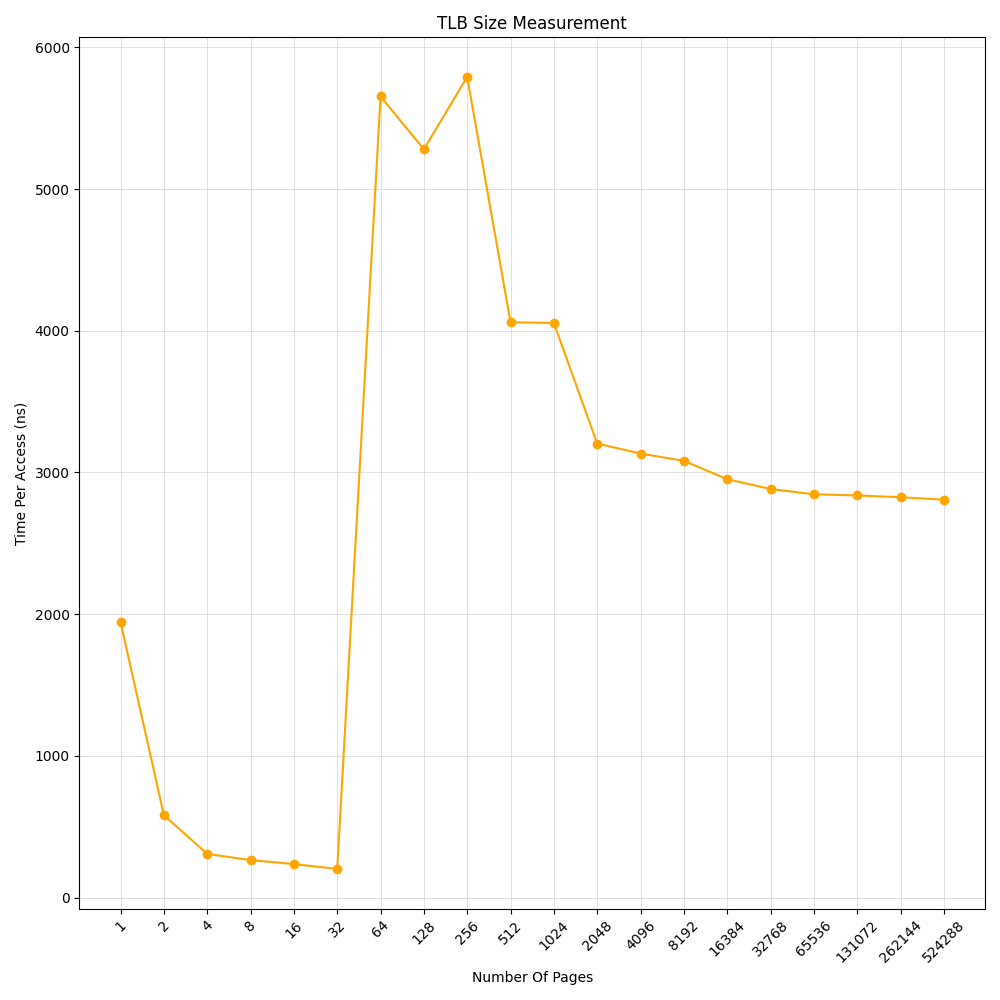
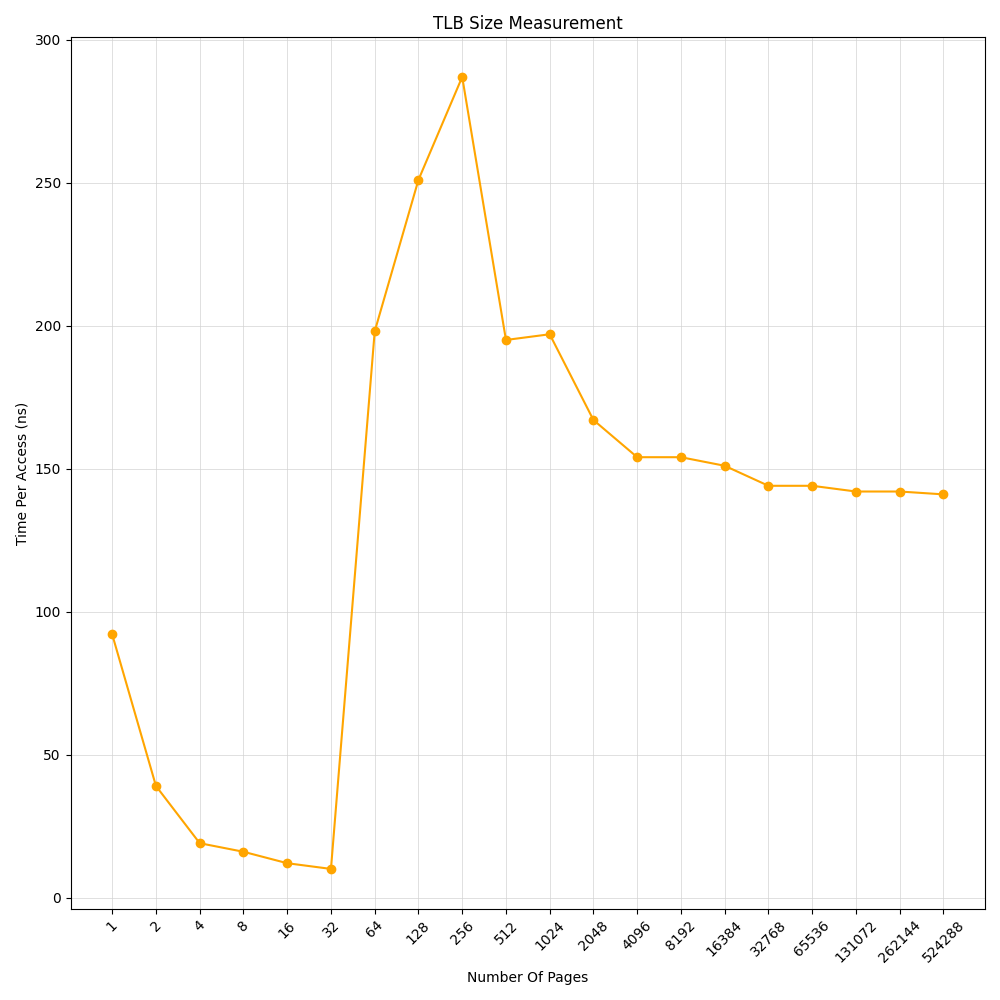
Change

diff --git a/tlb.py b/tlb.py
@@ -11,7 +11,7 @@ for i in range(int(trials)):
                             text=True, stdout=subprocess.PIPE)
     print(result.stdout, "ns")
     hist_pages.append(pages)
-    hist_times.append(int(result.stdout) / pages)
+    hist_times.append(int(result.stdout))
     pages *= 2
 
 plt.figure(figsize=(10, 10))

diff --git a/tlb.c b/tlb.c
@@ -33,7 +33,7 @@ int main(int argc, char *argv[]) {
     }
     free(a);
     long elapsed_ns = (end.tv_sec - start.tv_sec) * 1000000000L + (end.tv_nsec - start.tv_nsec);
-    printf("%ld", elapsed_ns);
+    printf("%ld", elapsed_ns / (loops * pages));
     exit(0);
 }
 
